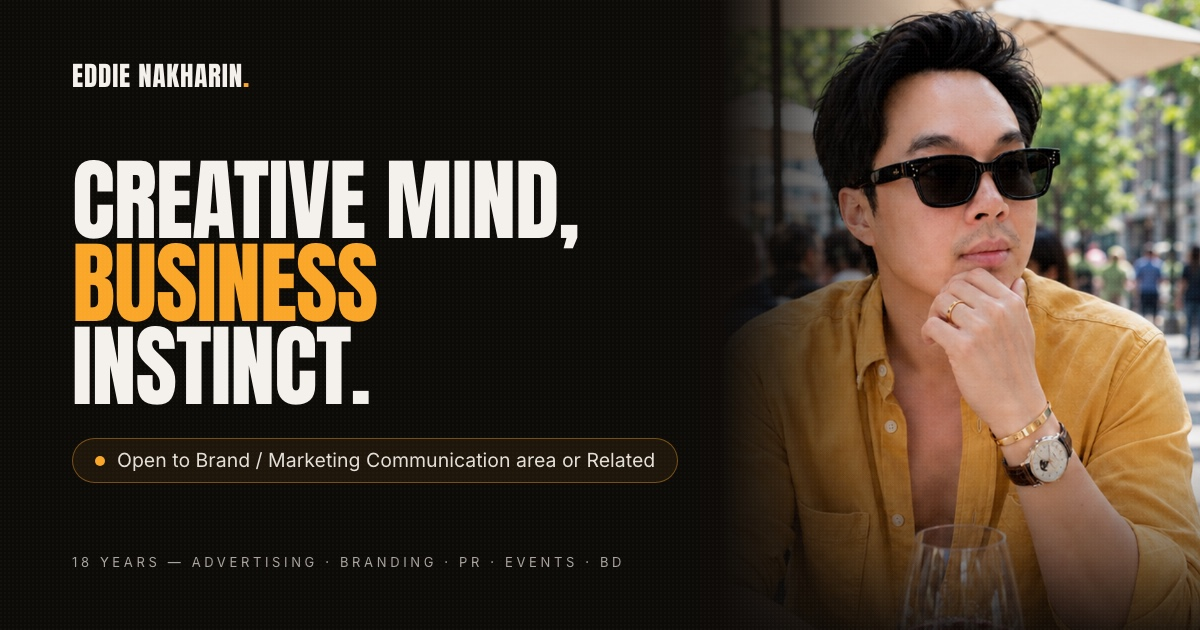
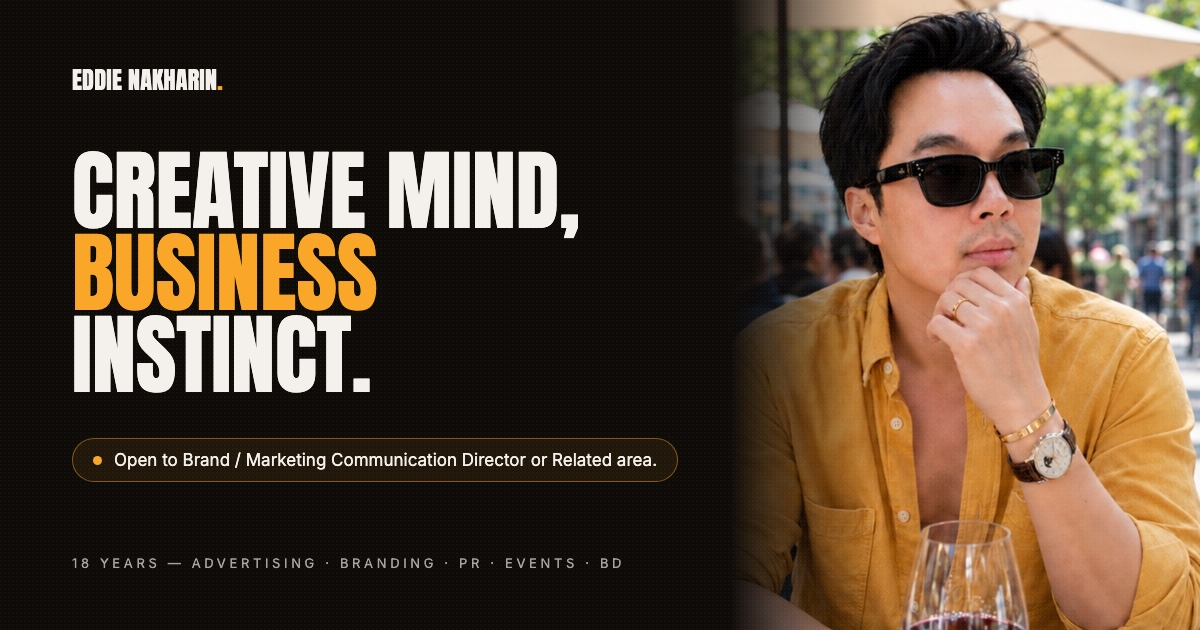
Redraw the share card with the hero's current availability line
The card still read "Open to Brand / Marketing Communication area or
Related" after the hero moved on. It is redrawn to match, and this time
the HTML it is drawn from is kept in scripts/share-card with a render
script, so the next change to that line is an edit and one command
rather than a reconstruction.

diff --git a/scripts/share-card/card.html b/scripts/share-card/card.html
@@ -1,0 +1,120 @@
+<!doctype html>
+<!--
+  The link-preview card, public/og/share-card.jpg. Rendered at 1200×630 by
+  render.sh — edit the text here, run it, commit the jpg, publish.
+  The pill repeats the hero's availability line (Content → Hero); when that
+  changes, this has to change with it, because the card is a picture.
+-->
+<html lang="en">
+<head>
+<meta charset="utf-8" />
+<link rel="stylesheet" href="https://fonts.googleapis.com/css2?family=Anton&family=Inter:wght@400;500&display=swap" />
+<style>
+  :root {
+    --background: oklch(0.15 0.008 70);
+    --foreground: oklch(0.96 0.008 85);
+    --primary: oklch(0.79 0.16 71);
+    --muted-foreground: oklch(0.72 0.012 80);
+  }
+  * { margin: 0; box-sizing: border-box; }
+  html, body { width: 1200px; height: 630px; overflow: hidden; }
+  body {
+    position: relative;
+    background: var(--background);
+    color: var(--foreground);
+    font-family: Inter, sans-serif;
+  }
+  .photo {
+    position: absolute;
+    left: 638px;
+    top: -41px;
+    width: 629px;
+  }
+  /* The photo dissolves into the background rather than meeting it at an edge. */
+  .fade {
+    position: absolute;
+    inset: 0;
+    background: linear-gradient(
+      to right,
+      var(--background) 0,
+      var(--background) 730px,
+      color-mix(in oklab, var(--background) 60%, transparent) 785px,
+      transparent 880px
+    );
+  }
+  /* The site's grain utility, at the same density. */
+  .grain {
+    position: absolute;
+    inset: 0;
+    background-image: radial-gradient(
+      circle at 1px 1px,
+      color-mix(in oklab, var(--foreground) 10%, transparent) 1px,
+      transparent 0
+    );
+    background-size: 4px 4px;
+    opacity: 0.25;
+  }
+  .copy { position: absolute; left: 72px; top: 0; }
+  .name {
+    position: absolute;
+    top: 62px;
+    font-family: Anton, sans-serif;
+    font-size: 24px;
+    letter-spacing: 0.01em;
+    white-space: nowrap;
+  }
+  .name span { color: var(--primary); }
+  h1 {
+    position: absolute;
+    top: 150px;
+    font-family: Anton, sans-serif;
+    font-weight: 400;
+    font-size: 88px;
+    line-height: 0.93;
+    text-transform: uppercase;
+    white-space: nowrap;
+  }
+  h1 em { font-style: normal; color: var(--primary); }
+  .pill {
+    position: absolute;
+    top: 438px;
+    display: flex;
+    align-items: center;
+    gap: 12px;
+    padding: 11px 20px;
+    border: 1px solid color-mix(in oklab, var(--primary) 45%, transparent);
+    border-radius: 999px;
+    background: color-mix(in oklab, var(--primary) 8%, transparent);
+    font-size: 17px;
+    white-space: nowrap;
+  }
+  .pill::before {
+    content: "";
+    width: 9px;
+    height: 9px;
+    border-radius: 50%;
+    background: var(--primary);
+  }
+  .hairline {
+    position: absolute;
+    top: 555px;
+    font-size: 13px;
+    letter-spacing: 0.28em;
+    text-transform: uppercase;
+    color: var(--muted-foreground);
+    white-space: nowrap;
+  }
+</style>
+</head>
+<body>
+  <img class="photo" src="../../src/assets/eddie-hero.jpg" alt="" />
+  <div class="fade"></div>
+  <div class="grain"></div>
+  <div class="copy">
+    <div class="name">EDDIE NAKHARIN<span>.</span></div>
+    <h1>Creative mind,<br /><em>Business</em><br />instinct.</h1>
+    <div class="pill">Open to Brand / Marketing Communication Director or Related area.</div>
+    <div class="hairline">18 years — Advertising · Branding · PR · Events · BD</div>
+  </div>
+</body>
+</html>

diff --git a/HANDOFF.md b/HANDOFF.md
@@ -63,11 +63,12 @@ send can cost a lead — the other two channels and the database don't know it
 happened.
 
 **The share card's availability line is baked into an image.**
-`public/og/share-card.jpg` says "Open to Brand / Marketing Communication area
-or Related", drawn once from the hero's copy. Editing the availability line in
-Content → Hero changes the page, not the card — the card has to be redrawn at
-1200×630 (see the og:image trap below) and republished, then scraped again on
-Facebook and LinkedIn.
+`public/og/share-card.jpg` repeats the hero's availability line — redrawn on
+29 September to read "Open to Brand / Marketing Communication Director or
+Related area." Editing that line in Content → Hero changes the page, not the
+card. To follow it: change the pill in `scripts/share-card/card.html`, run
+`scripts/share-card/render.sh`, commit the jpg, publish, then Scrape Again on
+Facebook's debugger and Inspect on linkedin.com/post-inspector.
 
 The test leads are gone, and both secrets that had been seen — the Telegram bot
 token and `ADMIN_PASSWORD` — were rotated on 9 September 2026.
